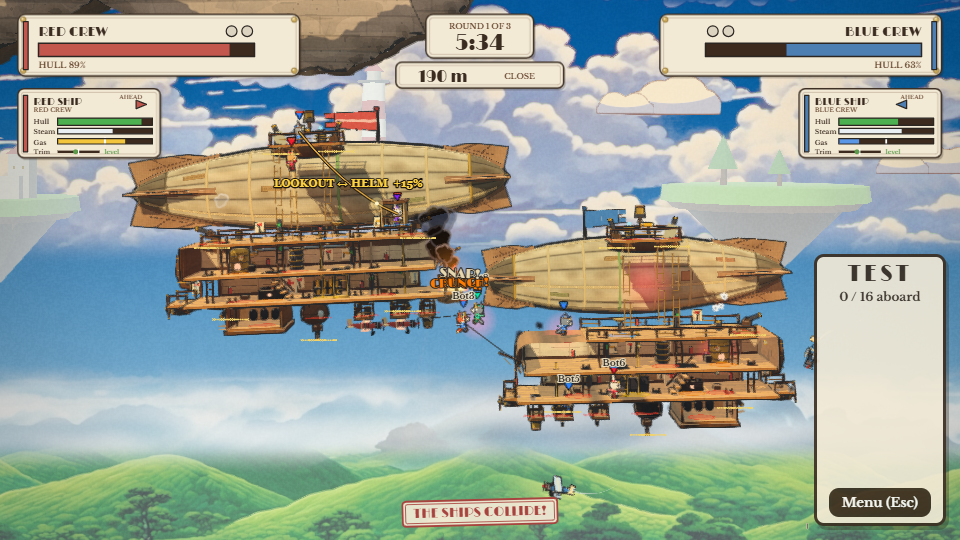
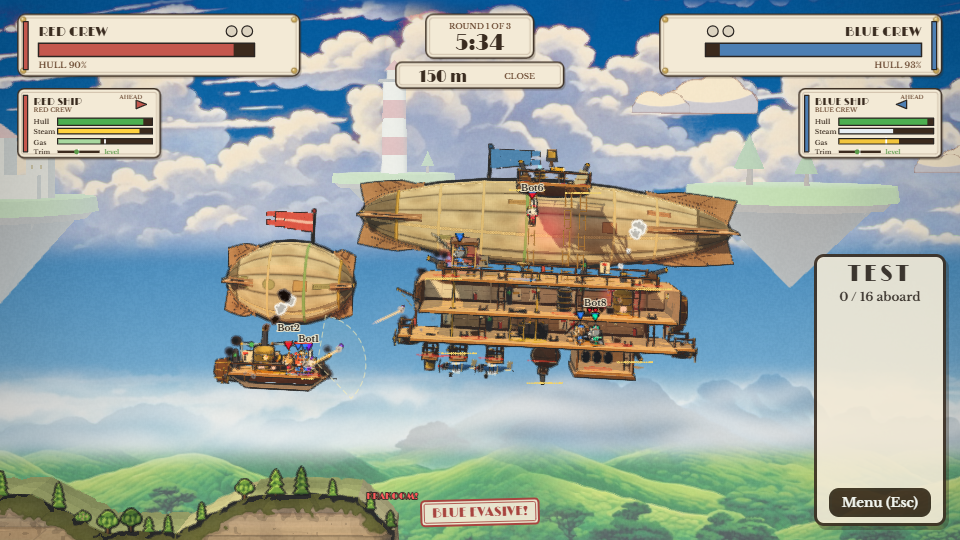
P5 part 3: --check-raft in buildsim, shipCycle, engine frame gate section, the raft 3D scene, raft curriculum section, fixtures re-snapshotted (lobby / cave / wyrm / versus: the default ship is the raft now)

diff --git a/public/modules/host/network.js b/public/modules/host/network.js
@@ -1,7 +1,7 @@
 import { config } from '../../config.js';
 import { mainShip, shipOf, crewOf } from './ships.js';
 import { crewAboard, crewHeads } from './crewscale.js';
-import { saveStartBuild } from './voyage.js';
+import { saveStartBuild, shipCycle } from './voyage.js';
 import { pageCount } from './book.js';
 
 // What a phone's input message does to its player (also used by tools/controls.mjs, which plays a person without a socket).
@@ -234,19 +234,10 @@ export function initHostNetwork({ simulation, onRoomClosed, onPlayerInput, onJoi
     if (shipButton.innerHTML !== html) shipButton.innerHTML = html;
   };
   shipButton.onclick = () => {
-    const sb = simulation.state.startBuild;
-    const cycle = config.RAFT.ENABLED ? ['raft', 'sparrow', 'classic'] : ['sparrow', 'classic']; // (P5: Auto -> Raft -> Sparrow -> Classic -> Auto; with RAFT.ENABLED false, as before: Auto -> Sparrow -> Classic -> Auto)
-    if (simulation.state.startBuildAuto) { // (F1: Auto -> the first ship ... -> Classic -> Auto: all but the last force a ship, the last goes back to choosing by the crew size)
-      simulation.setStartBuild(cycle[0]);
-      saveStartBuild(cycle[0]);
-    } else if (config.VOYAGE.START_BUILD_BY_CREW.ENABLED && sb === 'classic') {
-      simulation.setStartBuild(simulation.pickStartBuild(), 'auto');
-      saveStartBuild(null);
-    } else {
-      const i = cycle.indexOf(sb), next = i < 0 ? cycle[1] : cycle[(i + 1) % cycle.length]; // (a playtest build goes to the first quick start)
-      simulation.setStartBuild(next);
-      saveStartBuild(next);
-    }
+    const next = shipCycle(simulation.state.startBuild, simulation.state.startBuildAuto); // (P5: Auto -> Raft -> Sparrow -> Classic -> Auto; the first presses force a ship, the last goes back to choosing by the crew size - F1)
+    if (next.auto) simulation.setStartBuild(simulation.pickStartBuild(), 'auto');
+    else simulation.setStartBuild(next.build);
+    saveStartBuild(next.auto ? null : next.build);
     showShip();
   };
   setInterval(() => { showMode(); showDaily(); showShip(); }, 500); // (a finished daily voyage updates today's best)

diff --git a/public/modules/host/voyage.js b/public/modules/host/voyage.js
@@ -447,6 +447,15 @@ export function saveModePrefs(p) {
 // ---- Which ship a new voyage starts with (remembered on this TV): the Sparrow, or the classic full ship ----
 const SHIP_KEY = 'airshipShip';
 export const START_BUILDS = ['raft', 'sparrow', 'classic']; // (P5: 'raft' too; a saved 'raft' with RAFT.ENABLED false is the Sparrow: simulation.setStartBuild)
+// The Ship button's next press (network.js; PLAYTEST1.md P5): Auto -> Raft -> Sparrow -> Classic -> Auto. `build` is the ship now forced (ignored while `auto`); the answer is { build, auto }: auto = back to choosing by the crew size
+// (START_BUILD_BY_CREW), else the ship to force. With RAFT.ENABLED false the Raft is not in the round, as before.
+export function shipCycle(build, auto) {
+  const cycle = config.RAFT.ENABLED ? ['raft', 'sparrow', 'classic'] : ['sparrow', 'classic'];
+  if (auto) return { build: cycle[0], auto: false };
+  if (config.VOYAGE.START_BUILD_BY_CREW.ENABLED && build === 'classic') return { build: null, auto: true };
+  const i = cycle.indexOf(build);
+  return { build: i < 0 ? cycle[1] : cycle[(i + 1) % cycle.length], auto: false }; // (a playtest build goes to the first quick start)
+}
 export function loadStartBuild() {
   try {
     const v = localStorage.getItem(SHIP_KEY);

diff --git a/public/modules/host/simulation.js b/public/modules/host/simulation.js
@@ -1230,7 +1230,7 @@ export function createSimulation() {
     const cap = dockCards();
     if (state.run.raft) while (offers.length > cap) { // (P5: the raft's dock shows 4 cards - 5 for a crew of 10 or more: fittings go first, then a second stripped card, then the frame twin)
       const last = (test) => { for (let i = offers.length - 1; i >= 0; i--) if (test(offers[i], i)) return i; return -1; };
-      const k = [last((o) => o.kind === 'upgrade'), last((o, i) => o.named && i > offers.findIndex((x) => x.named)), last((o) => o.frame)].find((i) => i >= 0);
+      const k = [last((o) => o.kind === 'upgrade'), last((o, i) => o.named && i > offers.findIndex((x) => x.named)), last((o) => o.named), last((o) => o.frame)].find((i) => i >= 0); // (...a stripped card waits for the next dock; the frame twin is how a raft builds)
       if (k === undefined) break;
       offers.splice(k, 1);
     }

diff --git a/public/modules/host/partsShop.js b/public/modules/host/partsShop.js
@@ -353,7 +353,7 @@ export function choicesFor(entry, parts, base) {
     try { next = c.apply(parts); } catch { continue; }
     if (!next || next.length === parts.length && JSON.stringify(next) === JSON.stringify(parts)) continue;
     const res = validate(next);
-    if (!res.ok || hijacks(res.layout) > b.hijack) continue;
+    if (!res.ok || (!(config.RAFT.ENABLED && res.layout.platforms.length <= 1) && hijacks(res.layout) > b.hijack)) continue; // (P5: a one-deck ship has nowhere else to put a steam pipe's valve or a rack: people's buttons take the seat first anyway, P3)
     const sum = summaryOf(res);
     good.push({ ...c, parts: next, summary: sum, warns: res.warns, note: noteFor(b.sum, sum, res.warns, b.res.warns) });
   }
